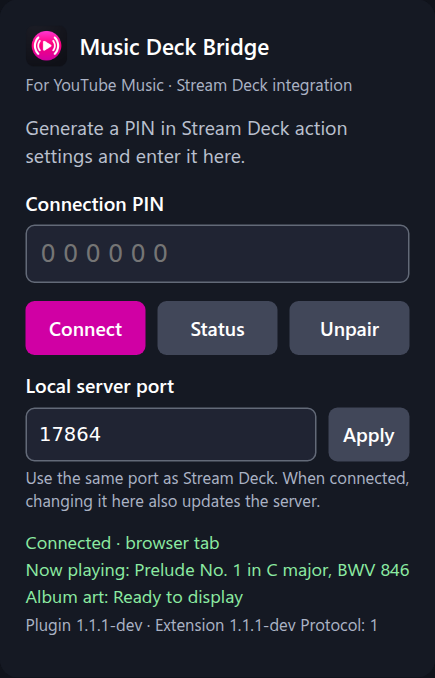
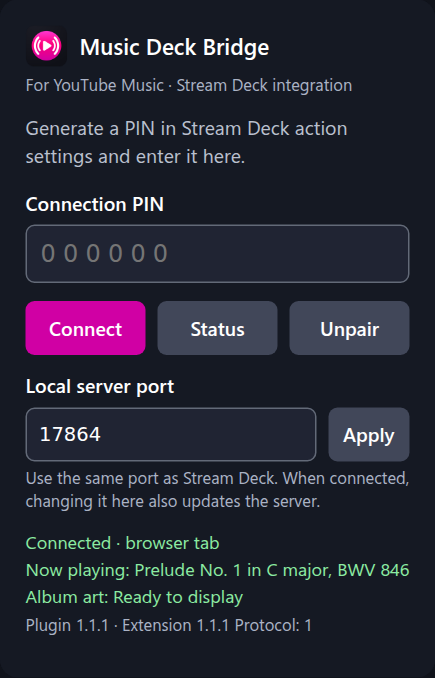
docs: refresh official popup images for v1.1.1

Changed region(s): [[0.269, 0.8982, 0.8667, 0.9292]]

diff --git a/docs/verification/official-images-2026-10-18.md b/docs/verification/official-images-2026-10-18.md
@@ -7,10 +7,10 @@ Evidence date: October 18, 2026 (Asia/Seoul). The maintainer selected three imag
 | File | Dimensions | Provenance |
 | --- | --- | --- |
 | [Stream Deck +](../../store-assets/elgato/screenshots/stream-deck-plus.png) | 658 × 513 | Maintainer's actual capture, outer margins cropped only |
-| [English popup](../../store-assets/chrome/screenshots/popup-en.png) | 435 × 678 | Unchanged selected rendering, sample track/connection data, displayed version 1.1.1-dev |
-| [Korean popup](../../store-assets/chrome/screenshots/popup-ko.png) | 435 × 678 | Unchanged selected rendering, sample track/connection data, displayed version 1.1.1-dev |
+| [English popup](../../store-assets/chrome/screenshots/popup-en.png) | 435 × 678 | Regenerated from the released 1.1.1 popup, sample track/connection data |
+| [Korean popup](../../store-assets/chrome/screenshots/popup-ko.png) | 435 × 678 | Regenerated from the released 1.1.1 popup, sample track/connection data |
 
-The popup files supplied in the maintainer's image directory match the previously generated `dist/previews/prelude-bwv846/popup-en.png` and `popup-ko.png` byte-for-byte. Their rendering uses the actual extension UI with simulated responses; official selection does not turn them into live Chrome/YouTube Music verification. The Stream Deck capture does not embed a component version, so no exact installed version is inferred from its appearance.
+The initially selected popup files supplied by the maintainer matched the earlier development renderings byte-for-byte. After the v1.1.1 release, the maintainer requested replacement with stable-version renderings and retention of the same Stream Deck capture. Popup rendering uses the actual extension UI with simulated responses; official selection does not turn it into live Chrome/YouTube Music verification. The Stream Deck capture does not embed a component version, so no exact installed version is inferred from its appearance.
 
 ## Stream Deck margin correction
 
@@ -22,8 +22,16 @@ The selected image is the exact rectangle **[75, 5, 733, 518)** from the origina
 | --- | --- |
[8 lines of base64/hex data omitted]
+
+## Stable popup refresh
+
+Both current popup images were regenerated with `npm run preview:render` from the released **v1.1.1** popup HTML, JavaScript, catalogs and icon, using the same sample song and connection state. The relevant source files match tag `v1.1.1` (`33b4757364e2e2c153cecc635027024662fffdbd`). Chromium 156.0.8078.4 rendered at 1.5 device scale with temporary Windows Segoe UI/Malgun Gothic fonts, which are not distributed in the repository or extension.
+
+Each locale reports plugin **1.1.1**, extension **1.1.1**, protocol **1**, with no development label. Both images remain **435 × 678**; the 290px popup has no horizontal overflow, its connection buttons remain **80 × 36 CSS pixels**, and the heading icon loads. The Stream Deck image's checksum remains unchanged.
 
 ## Use and limits
 
@@ -31,4 +39,4 @@ README and the store asset inventory reference these three canonical files. The 
 
 Visible album content identifies **Prelude No. 1 in C major, BWV 846**, performed by **Kimiko Ishizaka**, from [Bach: Well-Tempered Clavier, Book 1](https://kimikoishizaka.bandcamp.com/album/bach-well-tempered-clavier-book-1). The maintainer approved these images for use; this record does not add a new finding about the cover's reuse terms. Embedded third-party artwork is not relicensed by the project's Apache-2.0 code/icon license.
 
-The development cycle remains **1.1.1-dev**. No application code, release assets, public tag or store submission is changed by selecting these images.
+These media updates do not modify application code, version sources, published release assets or tags. The source version remains **1.1.1**.

diff --git a/store-assets/README.md b/store-assets/README.md
@@ -15,8 +15,8 @@ Use these maintainer-selected source images for README and listing media:
 | Image | Source |
 | --- | --- |
 | [Stream Deck +](elgato/screenshots/stream-deck-plus.png) | Actual maintainer capture with balanced outer margins |
-| [English Chrome popup](chrome/screenshots/popup-en.png) | Popup rendering with sample playback data |
-| [Korean Chrome popup](chrome/screenshots/popup-ko.png) | Popup rendering with sample playback data |
+| [English Chrome popup](chrome/screenshots/popup-en.png) | Version 1.1.1 popup rendering with sample playback data |
+| [Korean Chrome popup](chrome/screenshots/popup-ko.png) | Version 1.1.1 popup rendering with sample playback data |
 
 The actual Stream Deck capture takes precedence over the browser-rendered device approximation. The popup images are selected product visuals; their simulated connection status does not establish live-service validation. See the [image provenance record](../docs/verification/official-images-2026-10-18.md). Compose store-specific exports from these sources while preserving proportions and UI content.
 

diff --git a/store-assets/chrome/README.md b/store-assets/chrome/README.md
@@ -2,7 +2,7 @@
 
 Keep extension screenshots and promotional images here.
 
-The selected popup images are [English](screenshots/popup-en.png) and [Korean](screenshots/popup-ko.png). Use these canonical sources for product media; they are sample-data renderings. See the [shared image inventory](../README.md#official-product-images) for provenance and selection.
+The selected popup images are [English](screenshots/popup-en.png) and [Korean](screenshots/popup-ko.png), rendered from version **1.1.1** with sample data. Use these canonical sources for product media. See the [shared image inventory](../README.md#official-product-images) for provenance and selection.
 
 Use the submitted version's magenta icons in `chrome-extension/icons/`. See the [brand guide](../../docs/branding.md) for palette, size and reproduction details.
 
